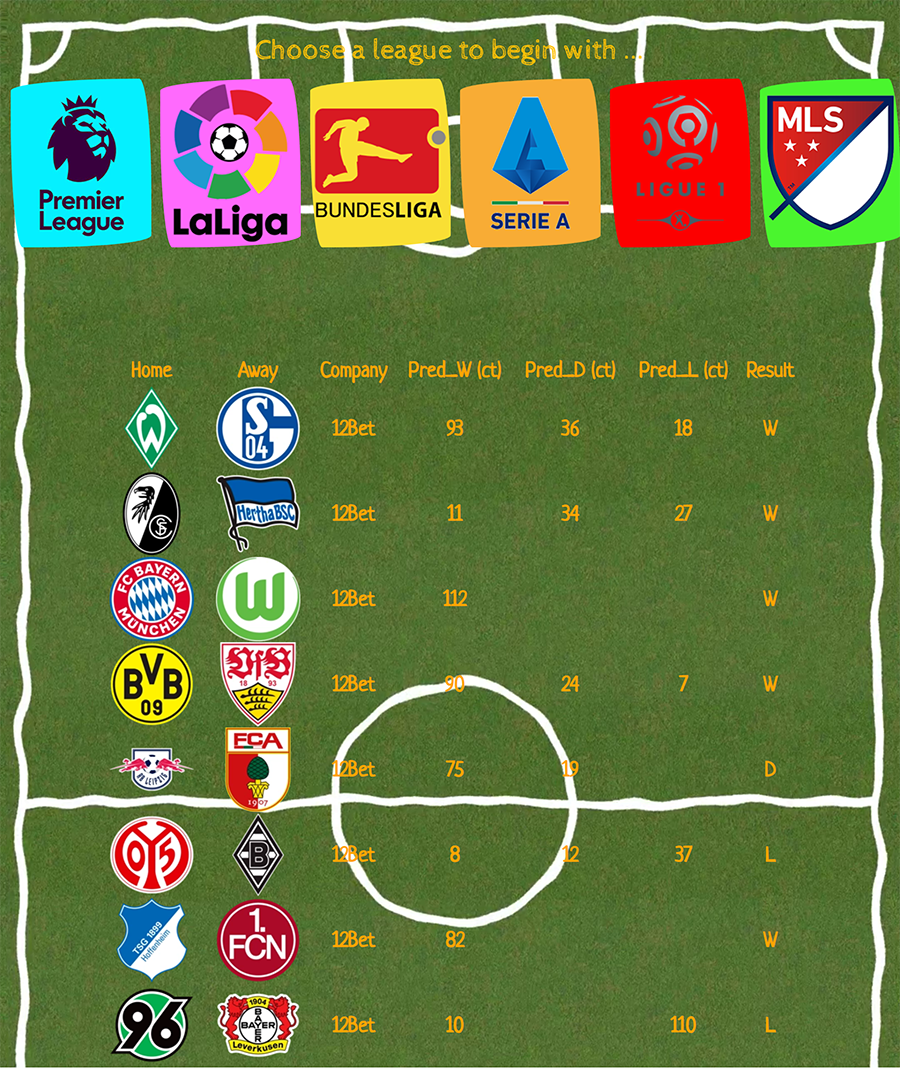
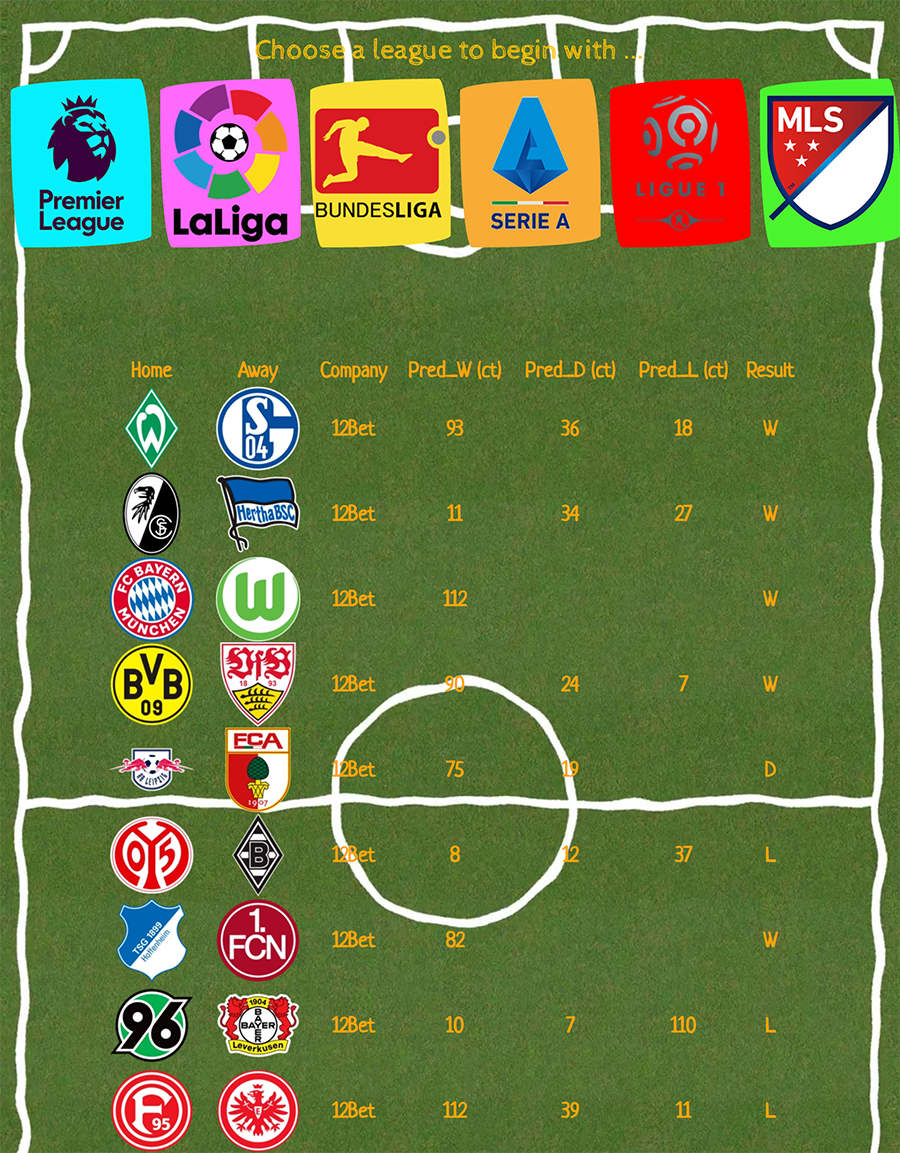
correct iteration error in matching_teams.js

diff --git a/static/js/matching_teams.js b/static/js/matching_teams.js
@@ -24,7 +24,7 @@ function matchDisplay() {
 
     // Note that matches may not get prediction on all "W", "D", and "L"
     // As a result, isolate info. for each match so that empty string functions as placeholder in "matchObj"
-    for (let i = 0; i < totalMatches - 1; i++) {
+    for (let i = 0; i < totalMatches; i++) {
 
         // Split original data to get rid of info. to the left of iterated match
         split_im = data.split(`&#39;match${i}&#39;: `)[1];
@@ -50,7 +50,7 @@ function matchDisplay() {
         }
 
         // Remove "}" from the last element of "matchArr"
-        if (i === totalMatches - 2) matchArr.push(matchArr.pop().slice(0, -1));
+        if (i === totalMatches - 1) matchArr.push(matchArr.pop().slice(0, -1));
 
         // Append match info to "matchObj"
         cols.forEach((col) => {
@@ -70,7 +70,7 @@ function matchDisplay() {
             }    
 
         });    
-    }
+    }   
    
     // Remove pre-existing table
     d3.select("table").remove();
@@ -102,6 +102,7 @@ function matchDisplay() {
                 tr.append('td')
                     .append('img')
                     .attr("src", `../static/image/icons/${league}/${matchObj[col][i]}.png`)
+                    .attr("class", "team_icon")
             } else {
                 tr.append('td')
                     .text(matchObj[col][i]);
